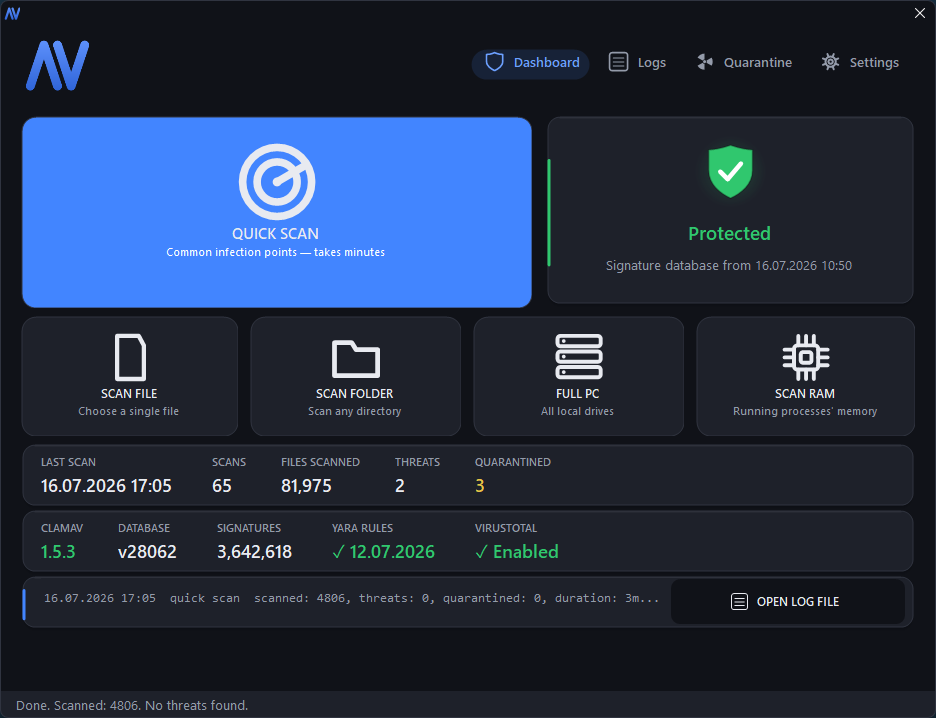
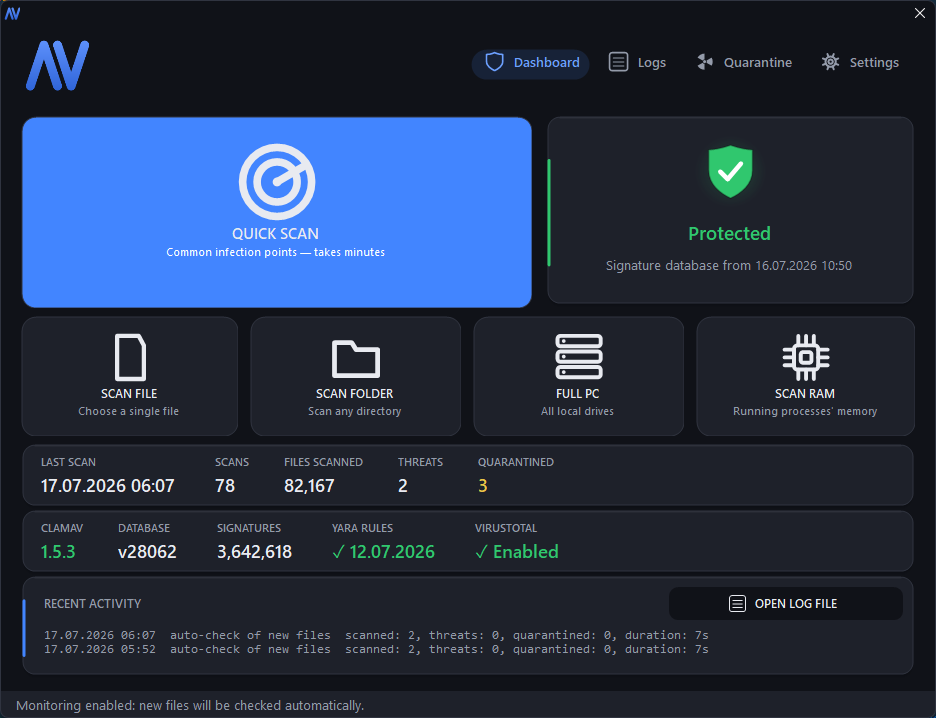
Add recent activity display to dashboard; localize activity label

diff --git a/src/MainForm.Ui.cs b/src/MainForm.Ui.cs
@@ -416,33 +416,52 @@ namespace AVUI
             dbStrip.Controls.Add(btnGetYara);
             dbStrip.Controls.Add(btnEnterVtKey);
 
-            // Last-activity strip: one line instead of a scrollable log card — the
-            // full history is one click away via "Open Log File", so the dashboard
-            // doesn't need to dedicate a big scrollable panel to it.
+            // Recent-activity card: fills the dashboard's leftover vertical space
+            // (a thin one-line strip wasted it, and clipped the single line against
+            // the button) and lists the last few scans at full width, so no line is
+            // cut off. The full history is still one click away via OPEN LOG FILE.
             activityRow = new StatusBanner();
-            activityRow.Dock = DockStyle.Top;
-            activityRow.Height = 56;
+            activityRow.Dock = DockStyle.Fill;
             activityRow.Margin = new Padding(6, 4, 6, 4);
-            activityRow.Padding = new Padding(20, 2, 10, 8); // bottom inset keeps children off the card shadow
+            activityRow.Padding = new Padding(20, 10, 12, 10);
             activityRow.AccentColor = Theme.Accent;
-            lastActivityLabel = new Label();
-            lastActivityLabel.Dock = DockStyle.Fill;
-            lastActivityLabel.AutoEllipsis = true;
-            // vertical padding leaves room for exactly one text line, so a long
-            // entry ellipsizes instead of wrapping mid-value ("3m" / "26s")
-            lastActivityLabel.Padding = new Padding(0, 13, 0, 13);
-            lastActivityLabel.Font = new Font("Consolas", 9f);
-            lastActivityLabel.ForeColor = Theme.Muted;
-            lastActivityLabel.BackColor = Theme.Card;
-            lastActivityLabel.TextAlign = ContentAlignment.MiddleLeft;
+
+            // header: caption on the left, OPEN LOG FILE on the right
+            var activityHeader = new Panel();
+            activityHeader.Dock = DockStyle.Top;
+            activityHeader.Height = 34;
+            activityHeader.BackColor = Theme.Card;
+            activityCaption = new Label();
+            activityCaption.Dock = DockStyle.Left;
+            activityCaption.Width = 260;
+            activityCaption.TextAlign = ContentAlignment.MiddleLeft;
+            activityCaption.Font = new Font("Segoe UI Semibold", 8.5f);
+            activityCaption.ForeColor = Theme.Muted;
+            activityCaption.BackColor = Theme.Card;
+            activityCaption.Text = Lang.T("activity.recent").ToUpperInvariant();
             // dark secondary button — a light one here outshines the primary actions above
             btnScanLog = MakeButton(Lang.T("btn.openLog"), 235, Theme.Bg, Theme.CardLine, Ico.LogIcon);
             btnScanLog.BackColor = Theme.Card;
             btnScanLog.Dock = DockStyle.Right;
             btnScanLog.Margin = new Padding(0, 0, 0, 0);
             btnScanLog.Click += delegate { OpenScanLog(); };
+            activityHeader.Controls.Add(activityCaption);
+            activityHeader.Controls.Add(btnScanLog);
+
+            lastActivityLabel = new Label();
+            lastActivityLabel.Dock = DockStyle.Fill;
+            lastActivityLabel.UseMnemonic = false; // paths/descriptions may contain "&"
+            lastActivityLabel.Padding = new Padding(0, 8, 0, 0);
+            lastActivityLabel.Font = new Font("Consolas", 9f);
+            lastActivityLabel.ForeColor = Theme.Muted;
+            lastActivityLabel.BackColor = Theme.Card;
+            lastActivityLabel.TextAlign = ContentAlignment.TopLeft;
+            // recompute the fitting line count once the label has its laid-out size.
+            // Resize fires during construction (Controls.Add lays the label out) before
+            // pages[0] is assigned, so guard the not-yet-built page reference.
+            lastActivityLabel.Resize += delegate { if (pages != null && pages[0] != null && pages[0].Visible) RefreshHistory(); };
             activityRow.Controls.Add(lastActivityLabel);
-            activityRow.Controls.Add(btnScanLog);
+            activityRow.Controls.Add(activityHeader);
 
             // Dock=Top stacks in reverse add order: the big tile mosaic first, then the
             // action tiles, the stat strip, the database strip, and the last-activity strip
@@ -1287,21 +1306,30 @@ namespace AVUI
             if (idx == 3) { RefreshSettingsStatus(); }
         }
 
-        // Shows just the last line of scans.log — the full history is one click
-        // away via "Open Log File" (see activityRow in BuildDashboardPage).
+        // Shows the last few scans.log lines, newest first, as many as fit the card
+        // without clipping — the full history is one click away via "Open Log File"
+        // (see activityRow in BuildDashboardPage).
         void RefreshHistory()
         {
             if (lastActivityLabel == null) return;
             try
             {
-                string last = null;
+                // how many lines fit the current card height (fixed-size window, so
+                // this is stable once laid out; recomputed on the card's Resize)
+                int lineH = lastActivityLabel.Font.Height + 2;
+                int avail = lastActivityLabel.ClientSize.Height - lastActivityLabel.Padding.Vertical;
+                int max = avail > lineH ? avail / lineH : 1;
+                if (max > 8) max = 8;
+                var recent = new List<string>();
                 if (File.Exists(scanLogPath))
                 {
                     string[] lines = File.ReadAllLines(scanLogPath);
-                    for (int i = lines.Length - 1; i >= 0; i--)
-                        if (lines[i].Trim().Length > 0) { last = lines[i]; break; }
+                    for (int i = lines.Length - 1; i >= 0 && recent.Count < max; i--)
+                        if (lines[i].Trim().Length > 0) recent.Add(FormatHistoryLine(lines[i]));
                 }
-                lastActivityLabel.Text = last != null ? FormatHistoryLine(last) : Lang.T("history.empty");
+                lastActivityLabel.Text = recent.Count > 0
+                    ? string.Join("\r\n", recent.ToArray())
+                    : Lang.T("history.empty");
             }
             catch { }
         }
@@ -1538,6 +1566,7 @@ namespace AVUI
             dashScanRam.SubText = Lang.T("btn.scanRamSub");
             btnUpdate.Text = Lang.T("btn.updateDb");
             btnScanLog.Text = Lang.T("btn.openLog");
+            if (activityCaption != null) activityCaption.Text = Lang.T("activity.recent").ToUpperInvariant();
             if (btnQuarExclusions != null) btnQuarExclusions.Text = Lang.T("btn.exclusions");
             if (btnQuarDelete != null) btnQuarDelete.Text = Lang.T("btn.deleteForever");
             if (btnQuarRestore != null) btnQuarRestore.Text = Lang.T("btn.restore");

diff --git a/src/MainForm.cs b/src/MainForm.cs
@@ -120,7 +120,7 @@ namespace AVUI
         bool quarSortAsc = false;
         readonly List<ModernButton> scanButtons = new List<ModernButton>(); // all buttons that start a scan (both pages)
         RichTextBox log;
-        Label statusLabel, heroTitle, heroSub, langLabel, lastActivityLabel, scanProgressLabel;
+        Label statusLabel, heroTitle, heroSub, langLabel, lastActivityLabel, activityCaption, scanProgressLabel;
         ShieldIndicator shield;
         Toggle chkAutostart, chkMonitor, chkQuarantine, chkAutoUpdate, chkRiskyOnly, chkFullRisky, chkUsbPrompt, chkLogDetails, chkSkipBig;
         Toggle chkNotify; // tray notifications; threat alerts are shown regardless (see Notify)

diff --git a/src/Lang.cs b/src/Lang.cs
@@ -273,6 +273,7 @@ namespace AVUI
             A("log.threatsSuffix", ", threats: {0}", ", загроз: {0}");
 
             // Log file / history
+            A("activity.recent", "Recent activity", "Остання активність");
             A("history.empty", "No scans yet.", "Ще не було жодного сканування.");
             A("log.emptyLogFile", "The log is empty — no scans yet.", "Журнал поки порожній — ще не було жодного сканування.");
 